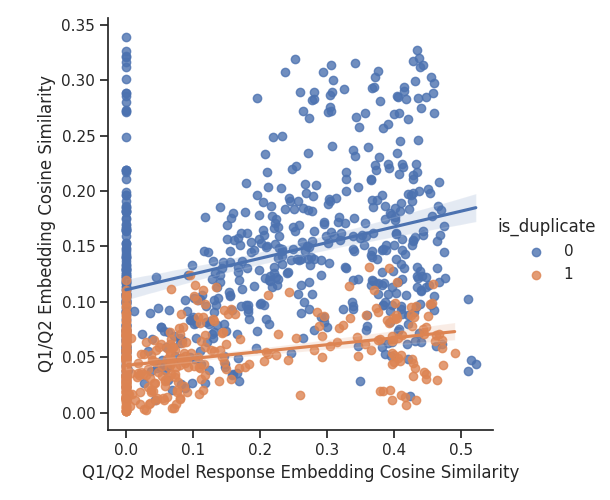
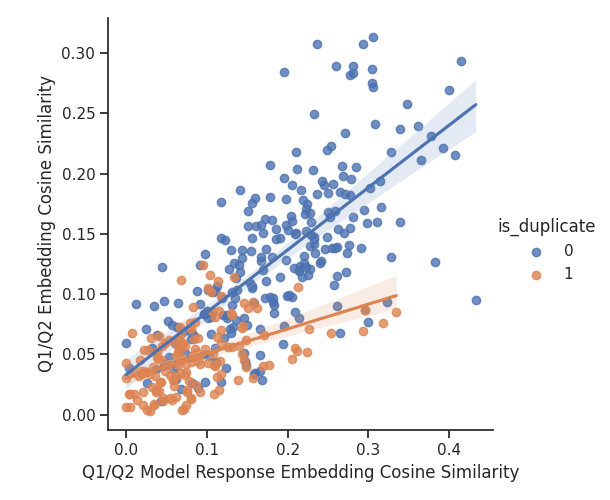
remove "Sorry I dont know" responses

diff --git a/src/openai_plot.py b/src/openai_plot.py
@@ -1,13 +1,21 @@
 from util import db
+import configparser
 import os
 import pandas as pd
 import pickle
 from util import db as database
+import logging
 import numpy as np
 import matplotlib.pyplot as plt
 import seaborn as sns
 
 sns.set(style='ticks')
+
+config = configparser.RawConfigParser()   
+configFilePath = r'/nas/projects/EMSE6900/src/configuration.txt'
+config.read(configFilePath)
+
+logging.basicConfig(filename='myapp.log', level=logging.DEBUG)
 
 mydb = database.db()
 df = mydb.query(experiment_id='1678656036')
@@ -19,6 +27,8 @@ print(df)
 
 plotdf = df[['model_embedding_cos', 'question_embedding_cos', 'is_duplicate']].copy()
 plotdf = plotdf.abs()
+
+#plotdf = plotdf[plotdf["team"].str.contains("Team 1") == False]
 
 #fg = sns.FacetGrid(data=plotdf, hue='is_duplicate', hue_order=[0,1], aspect=1.61)
 #fg.map(plt.scatter, 'model_embedding_cos', 'question_embedding_cos').add_legend()

diff --git a/src/util/db.py b/src/util/db.py
@@ -5,11 +5,15 @@ import pandas as pd
 import psycopg2
 import time
 from sqlalchemy import create_engine, text
+import logging
 
 # uses https://pandas.pydata.org/docs/reference/api/pandas.DataFrame.to_sql.html
 # After run 
 # -- UPDATE documents SET  model_embedding_cos = model_embedding1 <=> model_embedding2;
 # -- UPDATE documents SET  question_embedding_cos = embedding1 <=> embedding2;
+
+logging.basicConfig(level=logging.DEBUG)
+
 class db:
 
     def __init__(self):
@@ -47,7 +51,9 @@ class db:
 
         logging.debug('db.query')
 
-        sql='SELECT * FROM ' + self.table + ' WHERE experiment_id = ' + str(experiment_id)
+        sql='SELECT * FROM ' + self.table + ' WHERE (model_response1 NOT LIKE \'Sorry%\') and (model_response2 NOT LIKE \'Sorry%\') and (experiment_id = ' + str(experiment_id) + ')'
+
+        logging.debug(sql)
 
         try:
             
